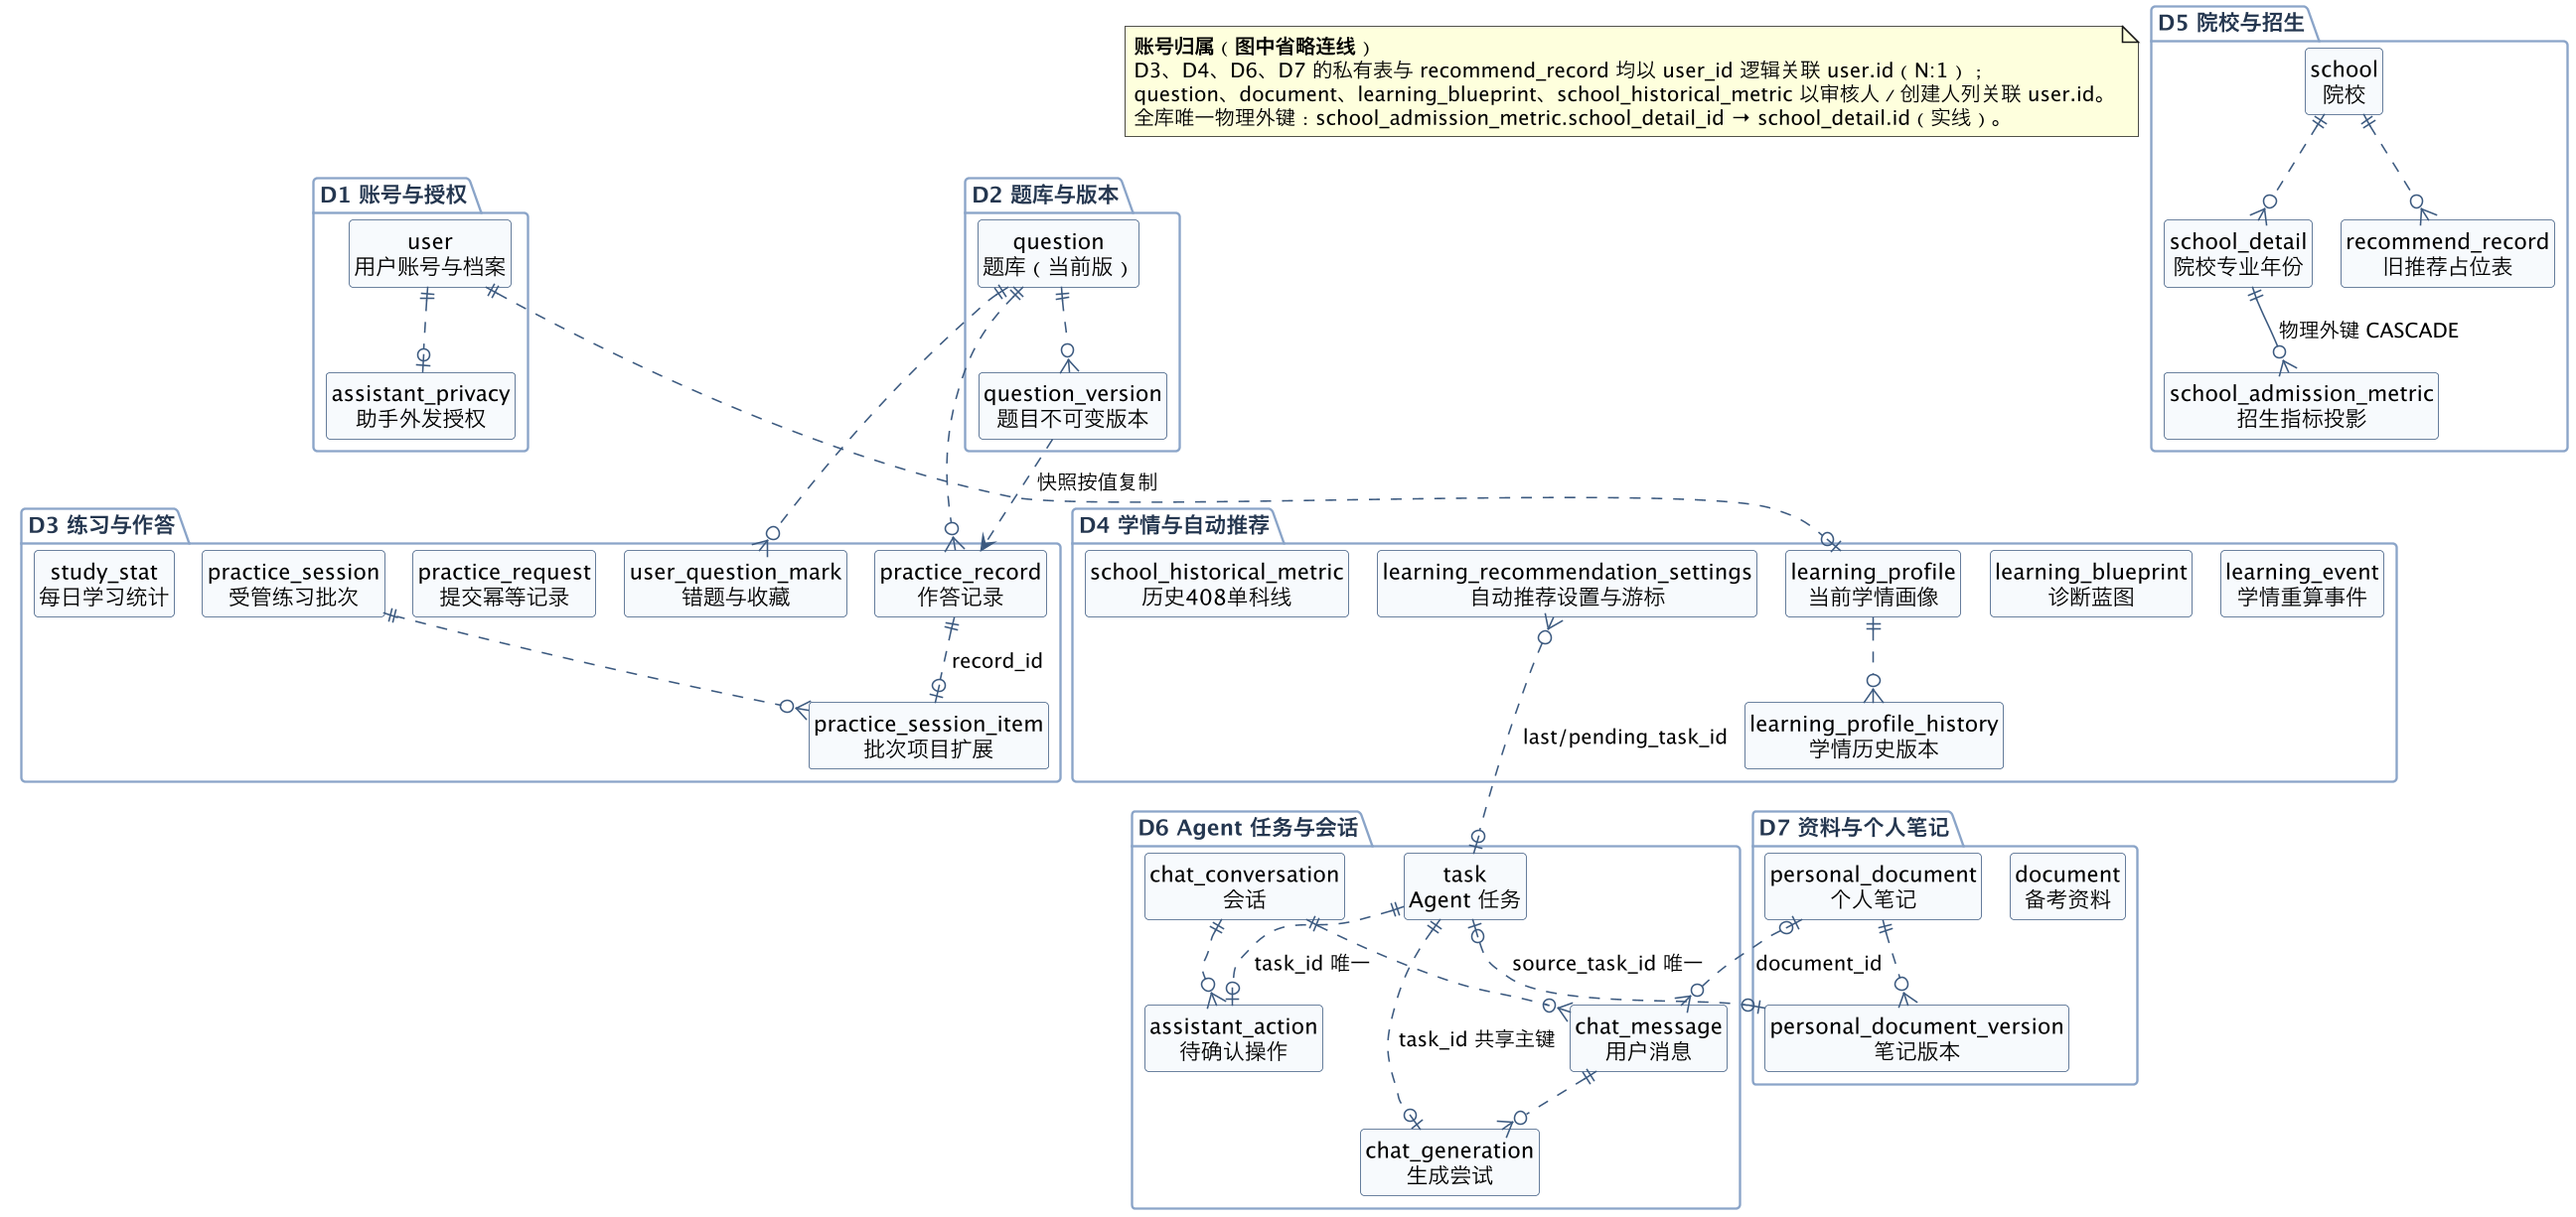
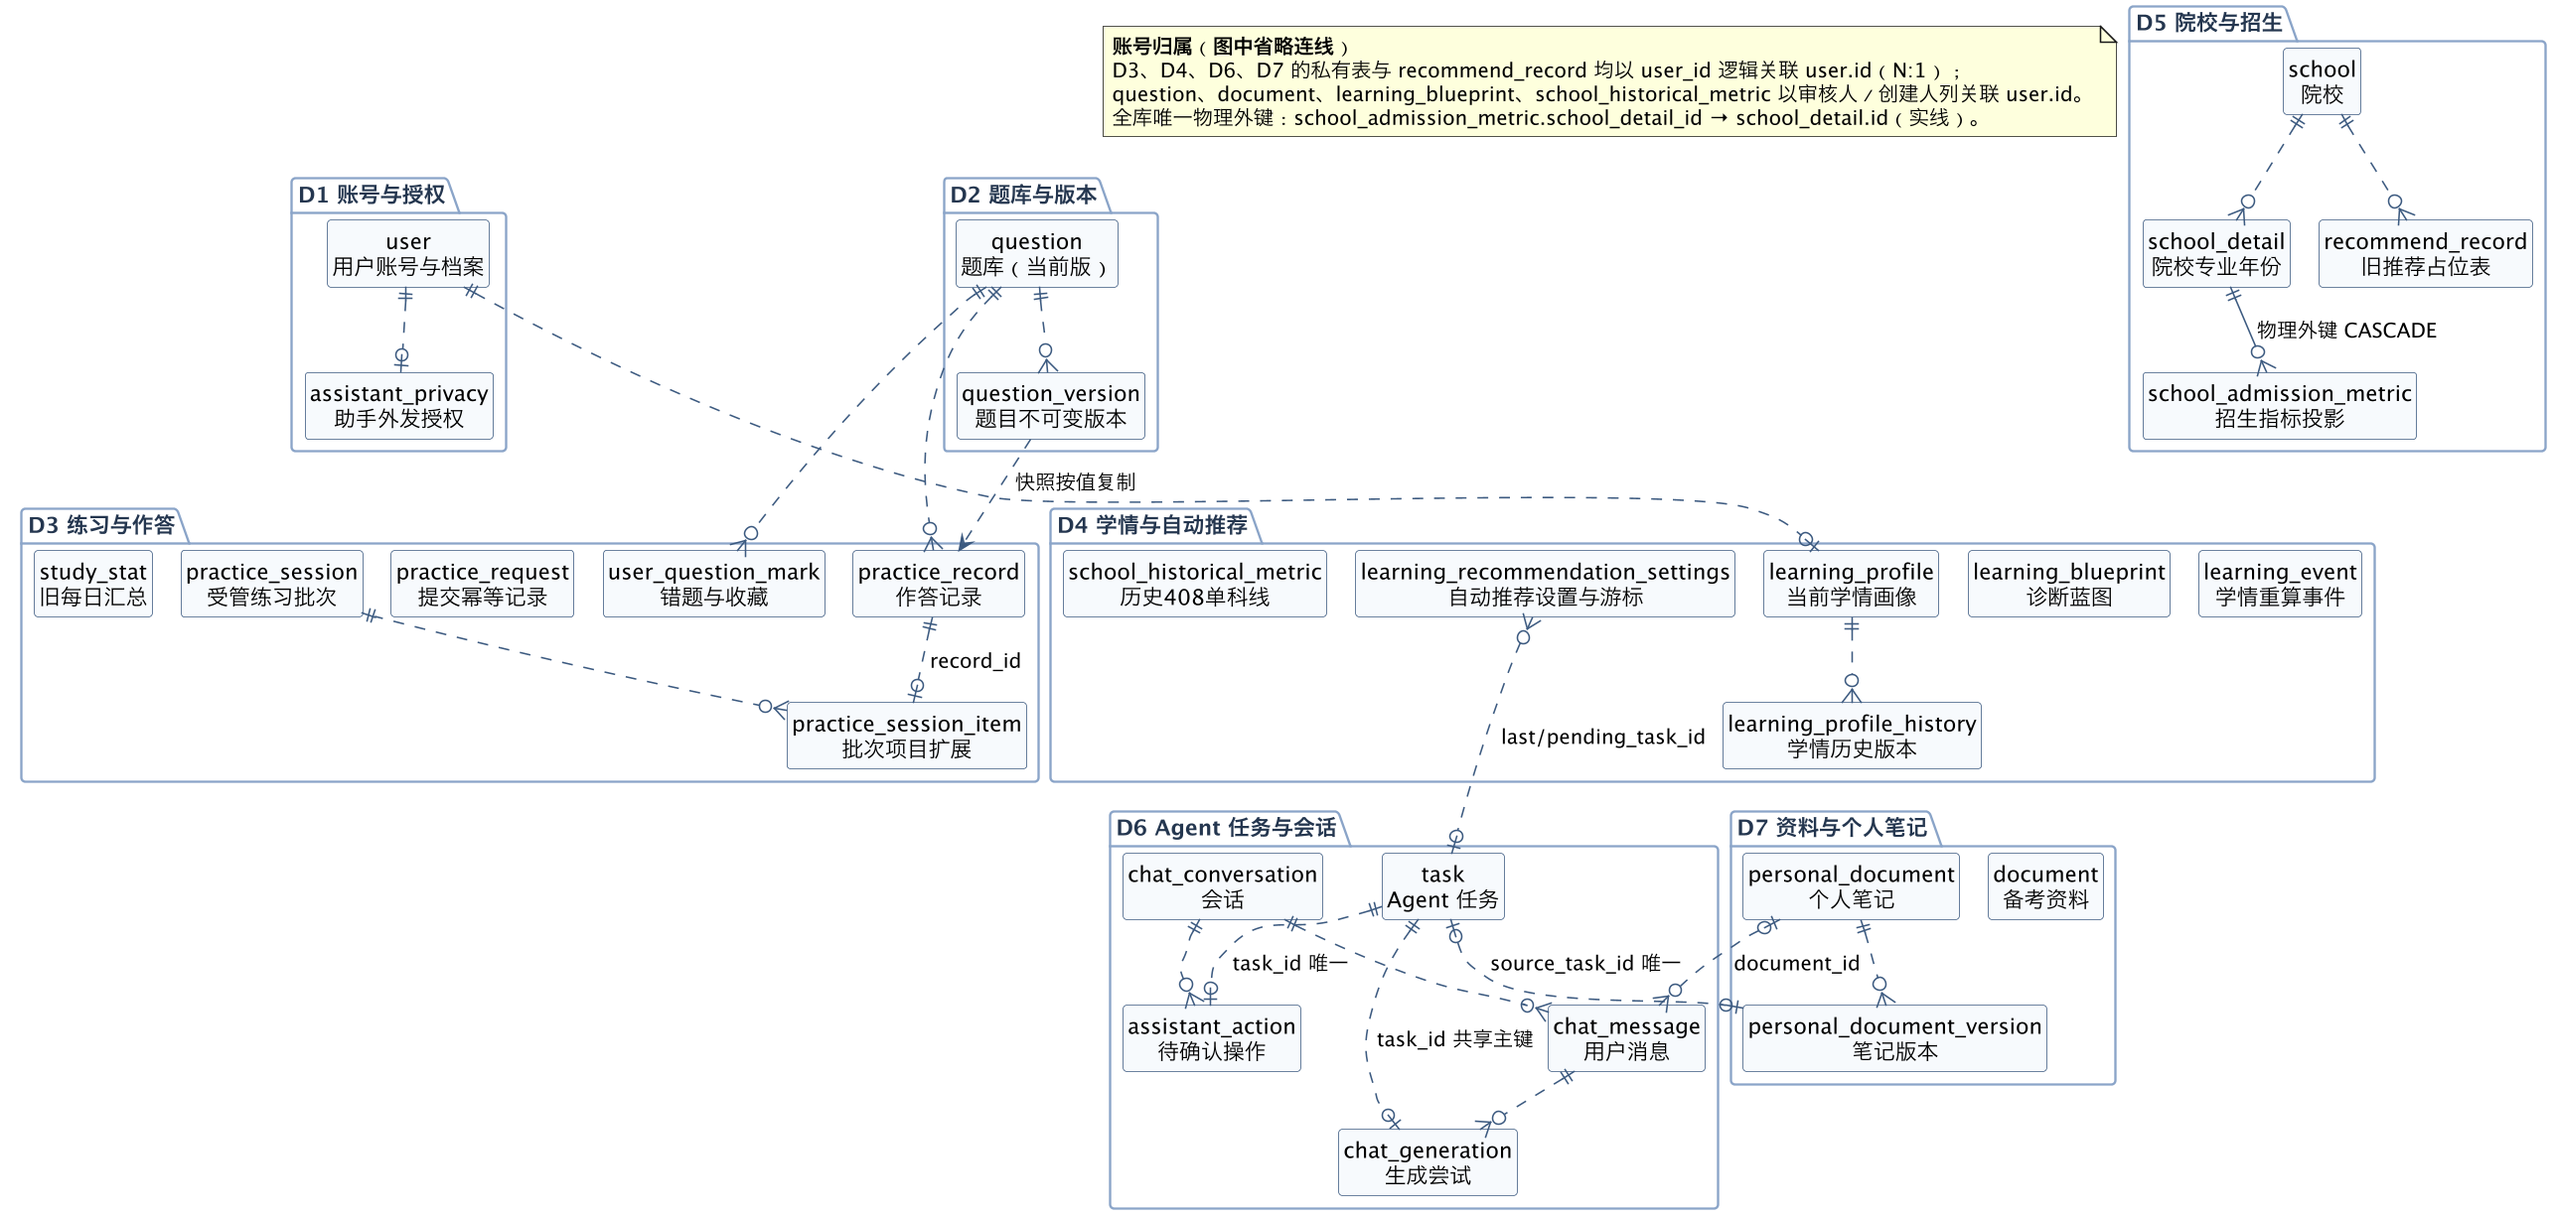
docs(database): 整合T07数据字典与实体映射，更正study_stat口径
- 说明书5.1节将T07数据字典、实体表映射作为附录A、B，附业务域到字典小节的对照（28表264字段）
- 独立核对T07：列名、类型、可空性与迁移逐项一致；补充隐私类别、推荐触发原因、历史指标类型3项编码值
- study_stat更正为旧每日汇总：仅旧批次提交累加，统计接口不读取；新增风险R11，更新两张ER图
- T06底稿登记T07核对记录及待T07处理事项

Refs #23

diff --git a/docs/coursework-02/database/T06_模型与存储设计.md b/docs/coursework-02/database/T06_模型与存储设计.md
@@ -11,8 +11,8 @@
 | 关系模式 | 说明书第 3.2 节 | 已完成 28 张表 |
 | 业务记录、索引、文件、资料版本与生命周期 | 说明书第 3.3、4 节 | 已完成 |
 | 事务、权限、备份恢复与迁移 | 说明书第 5.2—5.5 节 | 已完成 |
-| T07 字典与映射整合 | 说明书第 5.1 节 | 等待 T07 交付 |
-| 与 T07、T10 交叉核对 | 本文第 5 节 | 未开始 |
+| T07 字典与映射整合 | 说明书第 5.1 节（附录 A、B） | 已整合；T07 文件已由 PR #39 合入 `main`，`master` 合入 `main` 后附录链接生效 |
+| 与 T07、T10 交叉核对 | 本文第 5 节 | T07 已核对；T10 未交付 |
 
 ## 2. 依据与方法
 
@@ -112,7 +112,7 @@
 
 | 日期 | 核对方 | 范围 | 发现 | 处理 |
 | --- | --- | --- | --- | --- |
-| 待填 | T07 | 28 表字段与映射 | 待填 | 待填 |
+| 2026-11-05 | T06 核对 T07 | `T07_数据字典.md`、`T07_实体表映射.md` 及 `evidence/T07_*`（依据提交 `ffb6b49`，与 T06 依据的代码一致） | ① 独立解析迁移得 28 表 264 列，列名、类型、可空性与 T07 结构 JSON 及字典正文逐项一致，列序一致；② JSON 列 21 个（原生 13、`LONGTEXT` 8）一致；③ 抽查 `scopes_json` 键、`pending_reason`、`school_historical_metric` 类型及取值范围、消息长度 8000、`practice_session.kind` 等，均与代码一致；④ T07 未写明旧批次提交仍经 `StudyStatServiceImpl.accumulate` 写入 `study_stat`（`PracticeServiceImpl.java:137`，`L-` 受管批次不写，统计接口不读）；⑤ 复现脚本 `build_t07.py`、`verify_t07.py` 未随成果提交，他人无法复现其核对 | T06 侧：说明书改正 `study_stat` 描述并新增 R11，补充 3 项编码值。T07 侧：建议在 3.10 节和映射第 5 章补充 ④，并随成果提交或说明 ⑤ 的脚本。PR #39 合入 `main` 的文件与本次审查版本逐字节一致，④⑤ 尚未处理 |
 | 待填 | T10 | 结构摘录与迁移索引 | 待填 | 待填 |
 
 ## 6. 图源渲染
